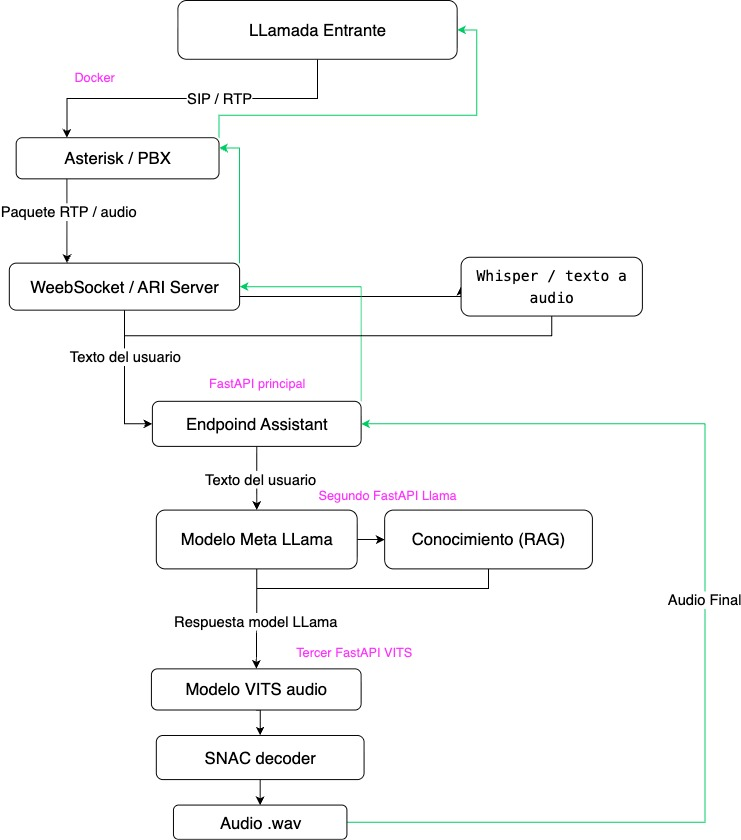
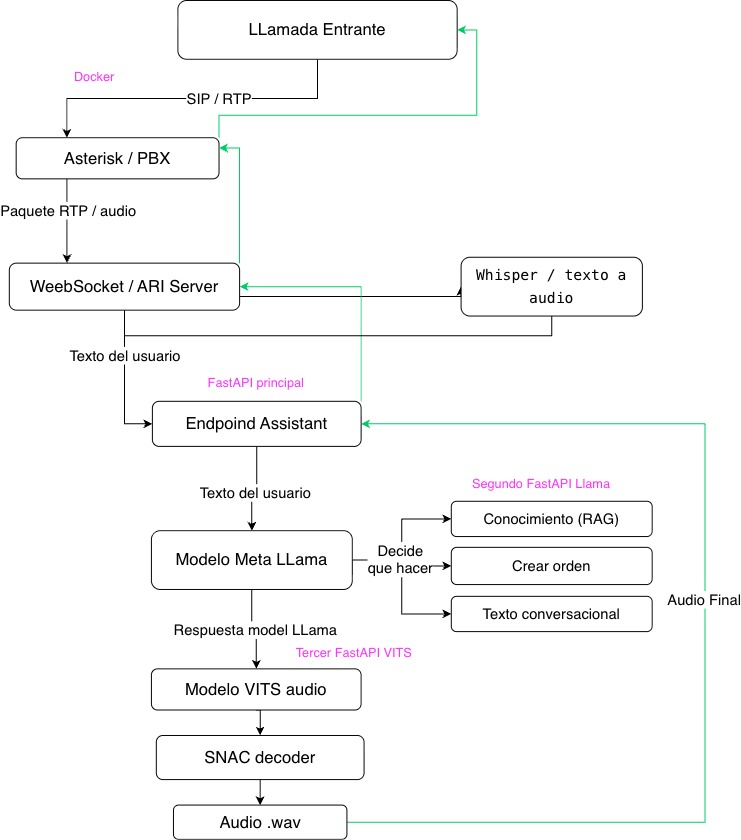
docs: update README with improved project architecture description
Update section headings from H4 to H3 for better hierarchy and readability.
Add detailed explanation of the three response generation options for the language model.
Fix image placement by moving the audio generation image to its corresponding section.

diff --git a/README.md b/README.md
@@ -49,11 +49,11 @@ Usé dos ambientes
 
 ![docker](assets/7.png)
 
-#### Arquitectura del proyecto
+### Arquitectura del proyecto
 
 ![diagrama](assets/8.jpg)
 
-#### Recepción de la llamada
+### Recepción de la llamada
 
 El flujo comienza con una llamada entrante que llega al sistema a través del protocolo SIP/RTP. Esta llamada es gestionada por Asterisk (PBX), que es el encargado de manejar la comunicación telefónica.
 
@@ -66,37 +66,43 @@ El servidor ARI recibe los paquetes RTP provenientes de Asterisk y procesa el au
 
 En este punto el audio del usuario se envía a un sistema de speech-to-text (Whisper) que convierte el audio de la llamada en texto del usuario.
 
-#### Procesamiento del mensaje del usuario
+### Procesamiento del mensaje del usuario
 
 El texto generado se envía al endpoint /assistant del FastAPI principal.
 Este endpoint actúa como orquestador de todo el flujo, coordinando los diferentes servicios del sistema.
 
 El endpoint /assistant recibe el texto del usuario y lo envía a un segundo servicio FastAPI encargado de generar la respuesta con un modelo de lenguaje.
 
-#### Generación de respuesta con modelo de lenguaje
+### Generación de respuesta con modelo de lenguaje
 
 El segundo servicio FastAPI contiene el modelo Meta LLaMA con el Fine-tuning, encargado de generar la respuesta conversacional.
 
-Antes de generar la respuesta final, el modelo utiliza una arquitectura RAG, donde el sistema consulta una base de conocimiento para recuperar información relevante que se añade al contexto del modelo.
+El modelo tiene 3 opciones de generacion de respuesta
+
+1. Generar texto normal conversacional
+
+2. Obtener productos: el modelo dispara la accion RAG, donde el sistema consulta una base de conocimiento vectorial para recuperar información relevante que se añade al contexto del modelo.
+
+3. Crear Orden: el modelo dispara la accion de crear una orden en el sistema, esto pasa cuando el modelo detecta que la venta ya se cerro
 
 El resultado es la respuesta textual del asistente.
 
 ![text](assets/4.png)
 
-#### Generación del audio de la respuesta
+### Generación del audio de la respuesta
 
 Una vez generada la respuesta textual, esta se envía a un tercer servicio FastAPI encargado de convertir el texto en voz.
 
 Este servicio utiliza un modelo de síntesis de voz VITS para generar el audio correspondiente a la respuesta. despues se le pasa a un SNAC para mejorar la calidad del audio
+
+![audio](assets/5.png)
 
 Es importante mencionar que el modelo de audio se ejecuta en un FastAPI separado del modelo de generación de texto.
 La razón de esta separación es que las versiones de dependencias de las librerías necesarias para el modelo de voz y para el modelo de lenguaje entraban en conflicto cuando se intentaban instalar dentro del mismo entorno virtual.
 
 Para evitar problemas de compatibilidad y mantener un entorno estable, cada modelo se desplegó en servicios independientes con sus propios entornos virtuales.
 
-![audio](assets/5.png)
-
-#### Respuesta en la llamada
+### Respuesta en la llamada
 
 El archivo de audio generado se envía nuevamente al servidor ARI, que lo retransmite a Asterisk.
 
